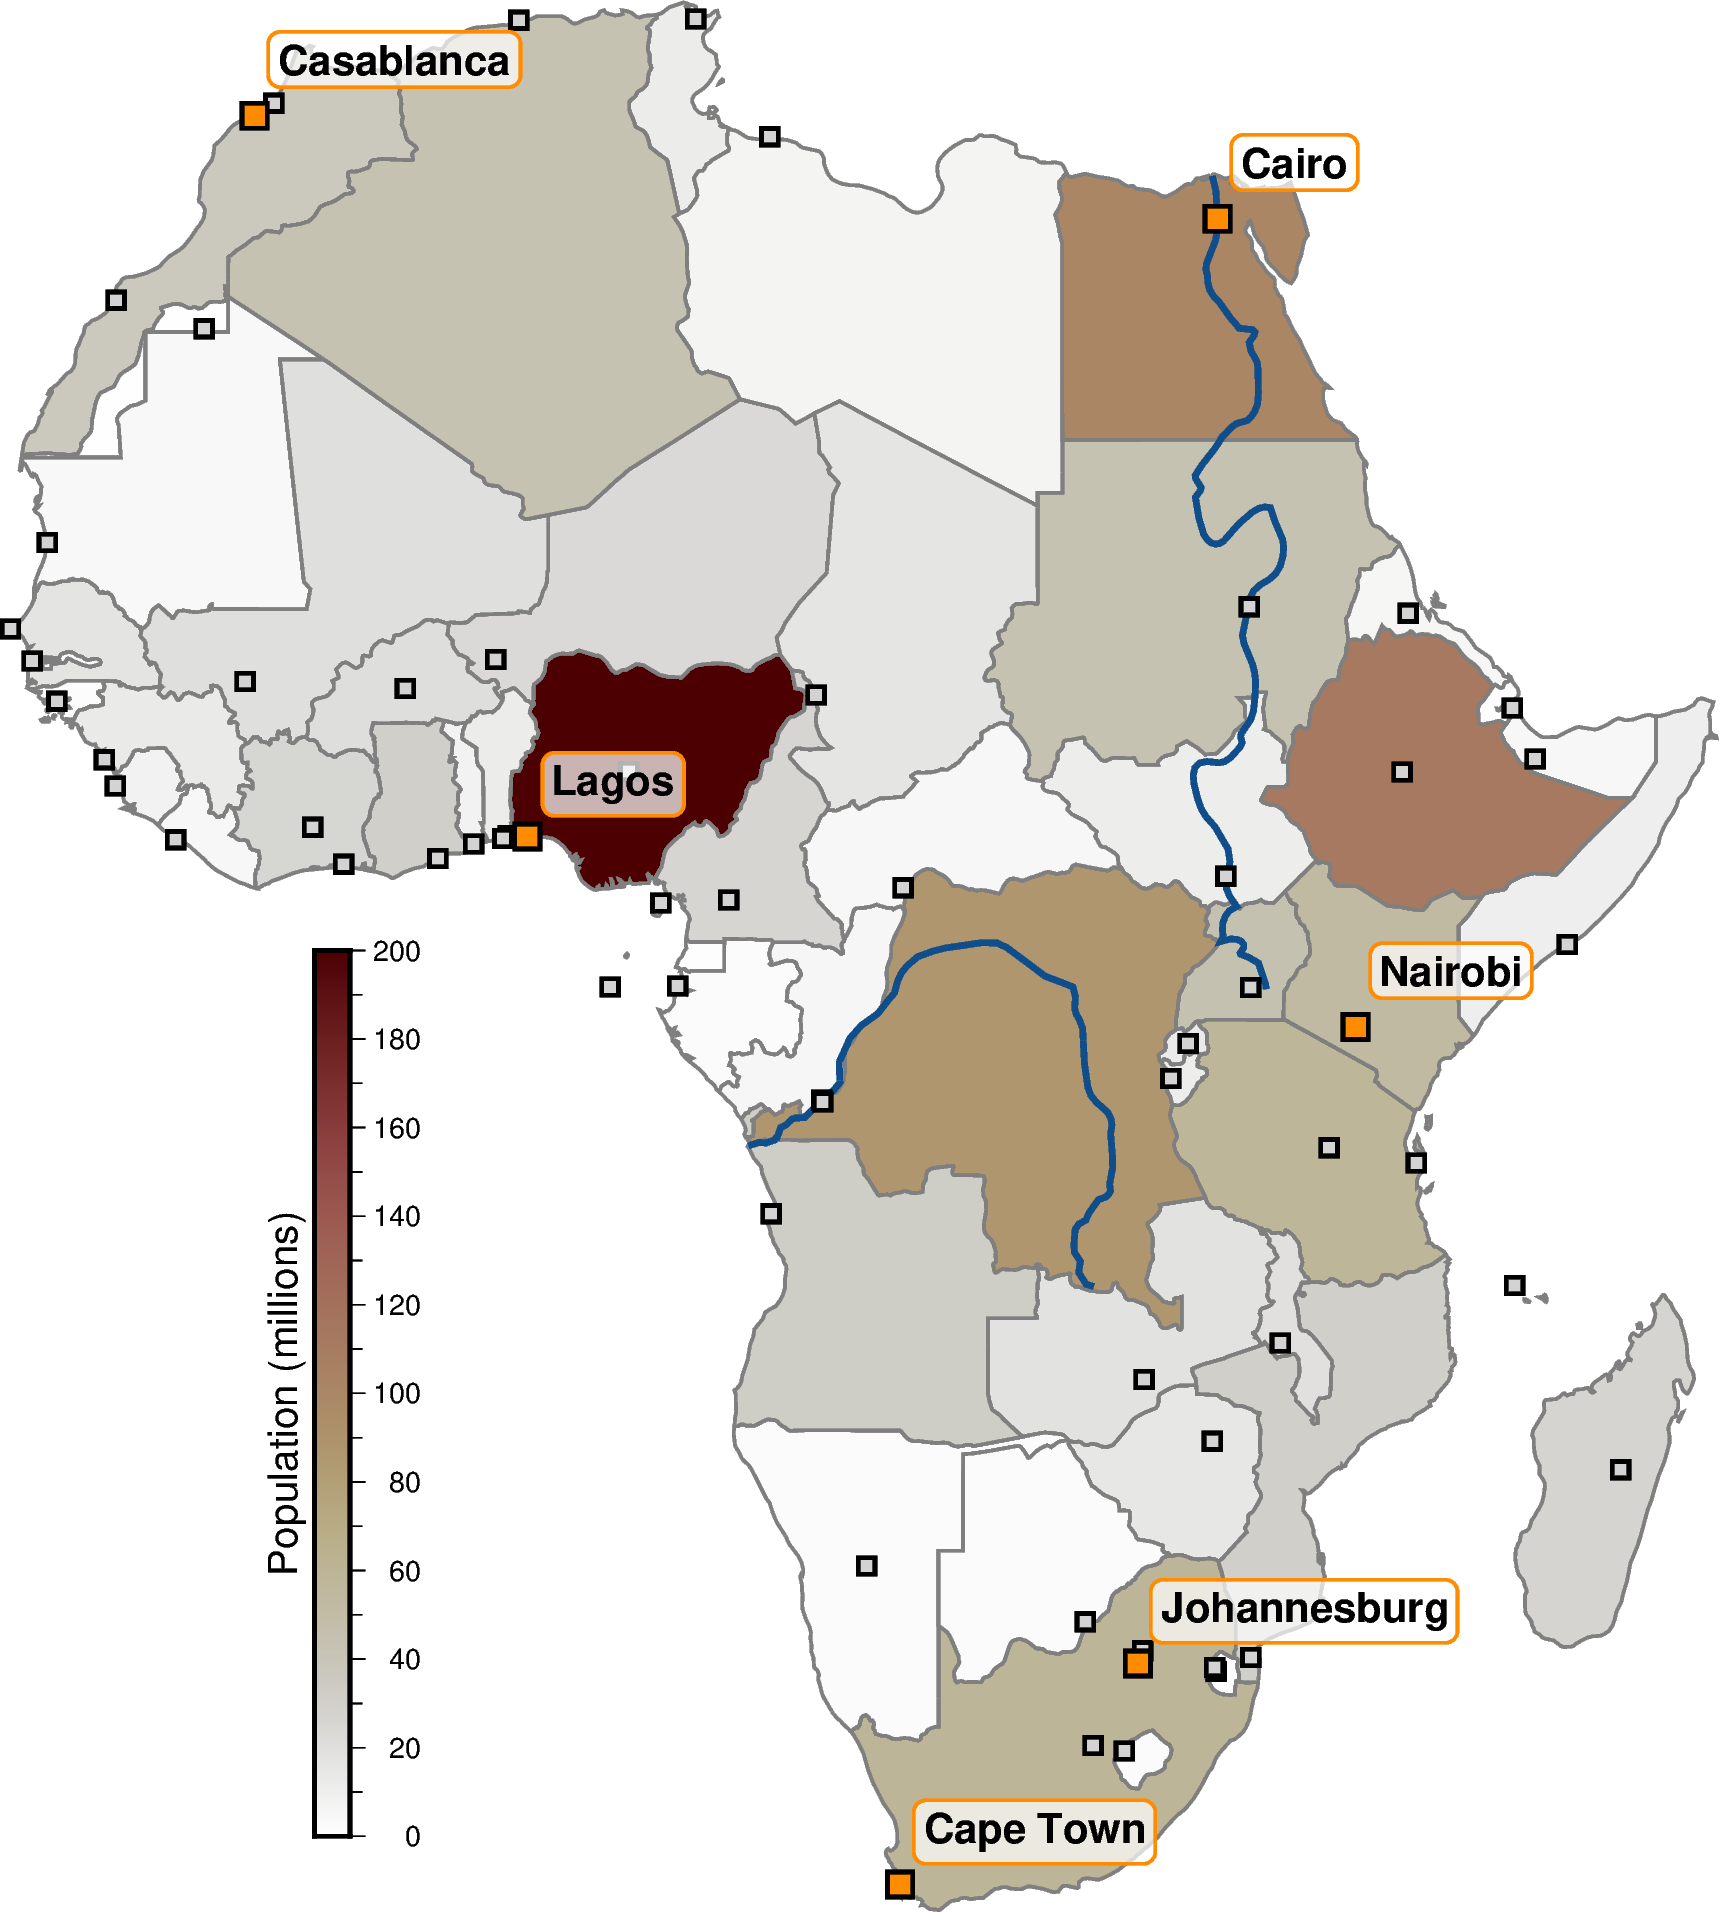
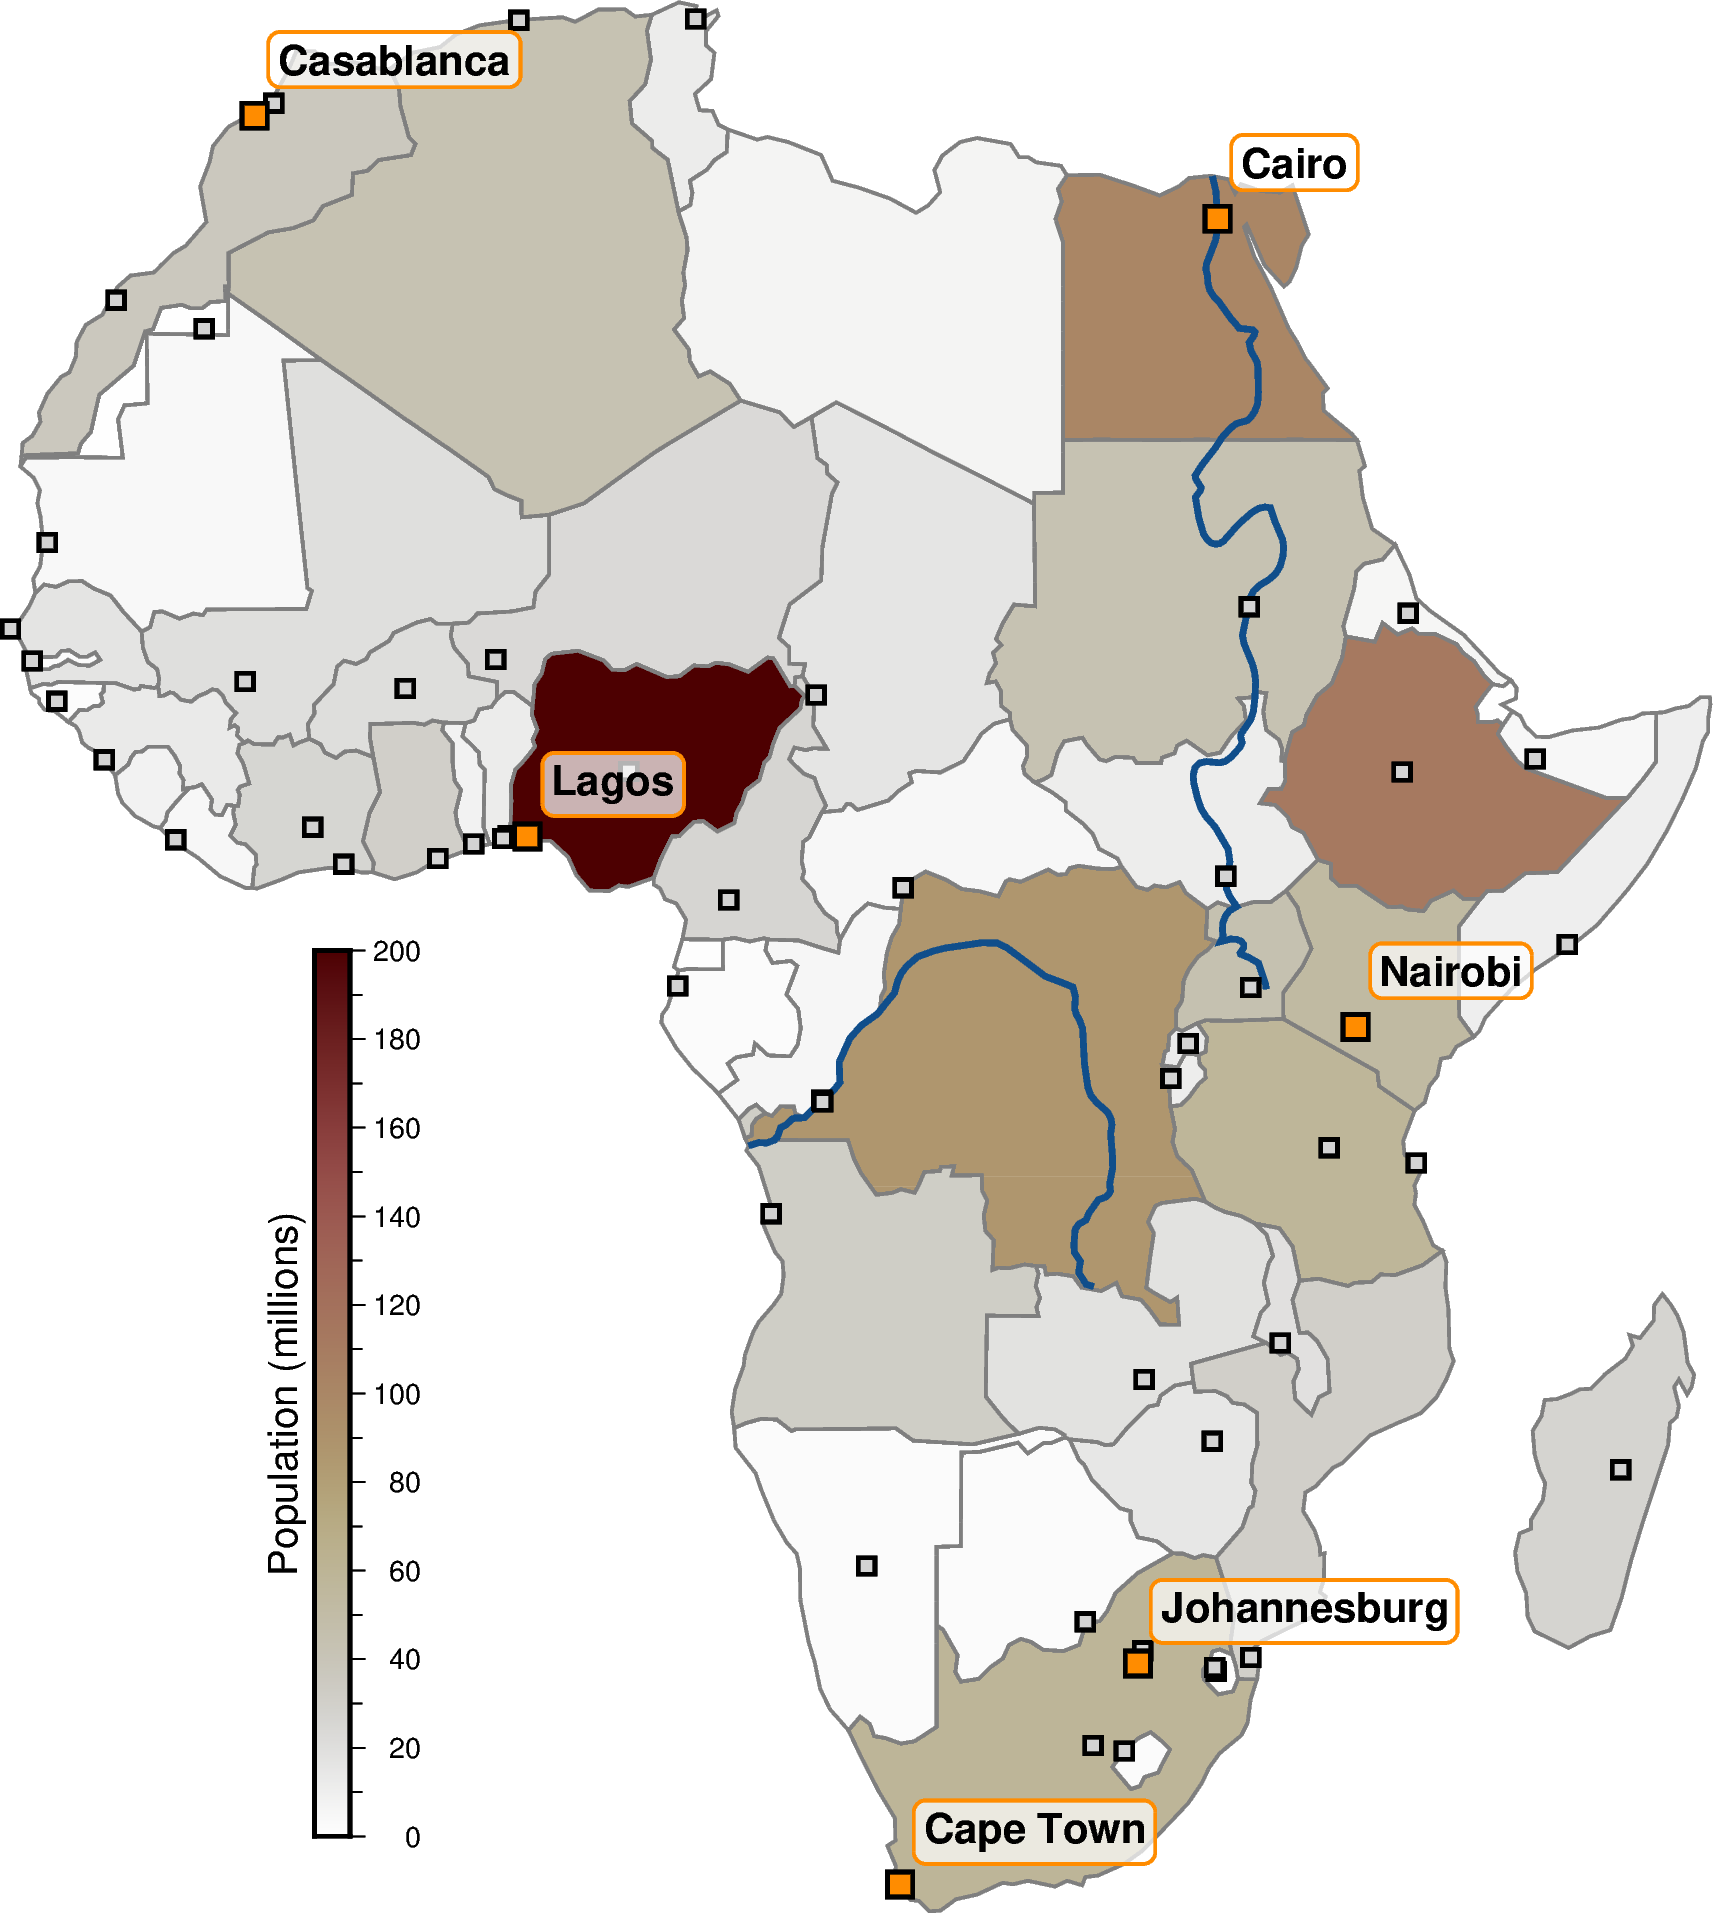
Adjust building the city subsets

diff --git a/Fig6_PyGMT_geopandas.py b/Fig6_PyGMT_geopandas.py
@@ -47,20 +47,20 @@ africa = world[world["CONTINENT"] == "Africa"].copy()
 rivers = gpd.read_file(f"{provider}/110m/physical/ne_110m_rivers_lake_centerlines.zip")
 cities = gpd.read_file(f"{provider}/110m/cultural/ne_110m_populated_places_simple.zip")
 cities_africa = gpd.sjoin(cities, africa, how="inner")
-cities_large = cities[cities["worldcity"] == 1].copy()
-cities_large = cities_large.cx[-19.5:40, -36.5:37].copy()
+cities_large = cities_africa[cities_africa["worldcity"] == 1].copy()
+cities_small = cities_africa[cities_africa["worldcity"] != 1].copy()
 
 fig = pygmt.Figure()
 fig.basemap(region=[-19.5, 52, -37, 38], projection="M15c", frame="+n")
 
 pygmt.makecpt(cmap="bilbao", series=(0, 200))
-fig.plot(data=africa, pen="0.8p,gray50", fill="+z", cmap=True, aspatial="Z=POP_EST")
+fig.plot(data=africa[["geometry", "POP_EST"]], pen="0.8p,gray50", fill="+z", cmap=True, aspatial="Z=POP_EST")
 fig.colorbar(frame="x20f10+lPopulation (millions)", position="jML+o3c/-3.5c+w7.5c+ml")
 
-fig.plot(data=rivers, pen="1.5p,dodgerblue4")
+fig.plot(data=rivers["geometry"], pen="1.5p,dodgerblue4")
 
-fig.plot(data=cities_africa, style="s0.2c", fill="lightgray", pen="1p")
-fig.plot(data=cities_large, style="s0.3c", fill="darkorange", pen="1p")
+fig.plot(data=cities_small["geometry"], style="s0.2c", fill="lightgray", pen="1p")
+fig.plot(data=cities_large["geometry"], style="s0.3c", fill="darkorange", pen="1p")
 fig.text(
     x=cities_large.geometry.x,
     y=cities_large.geometry.y,
